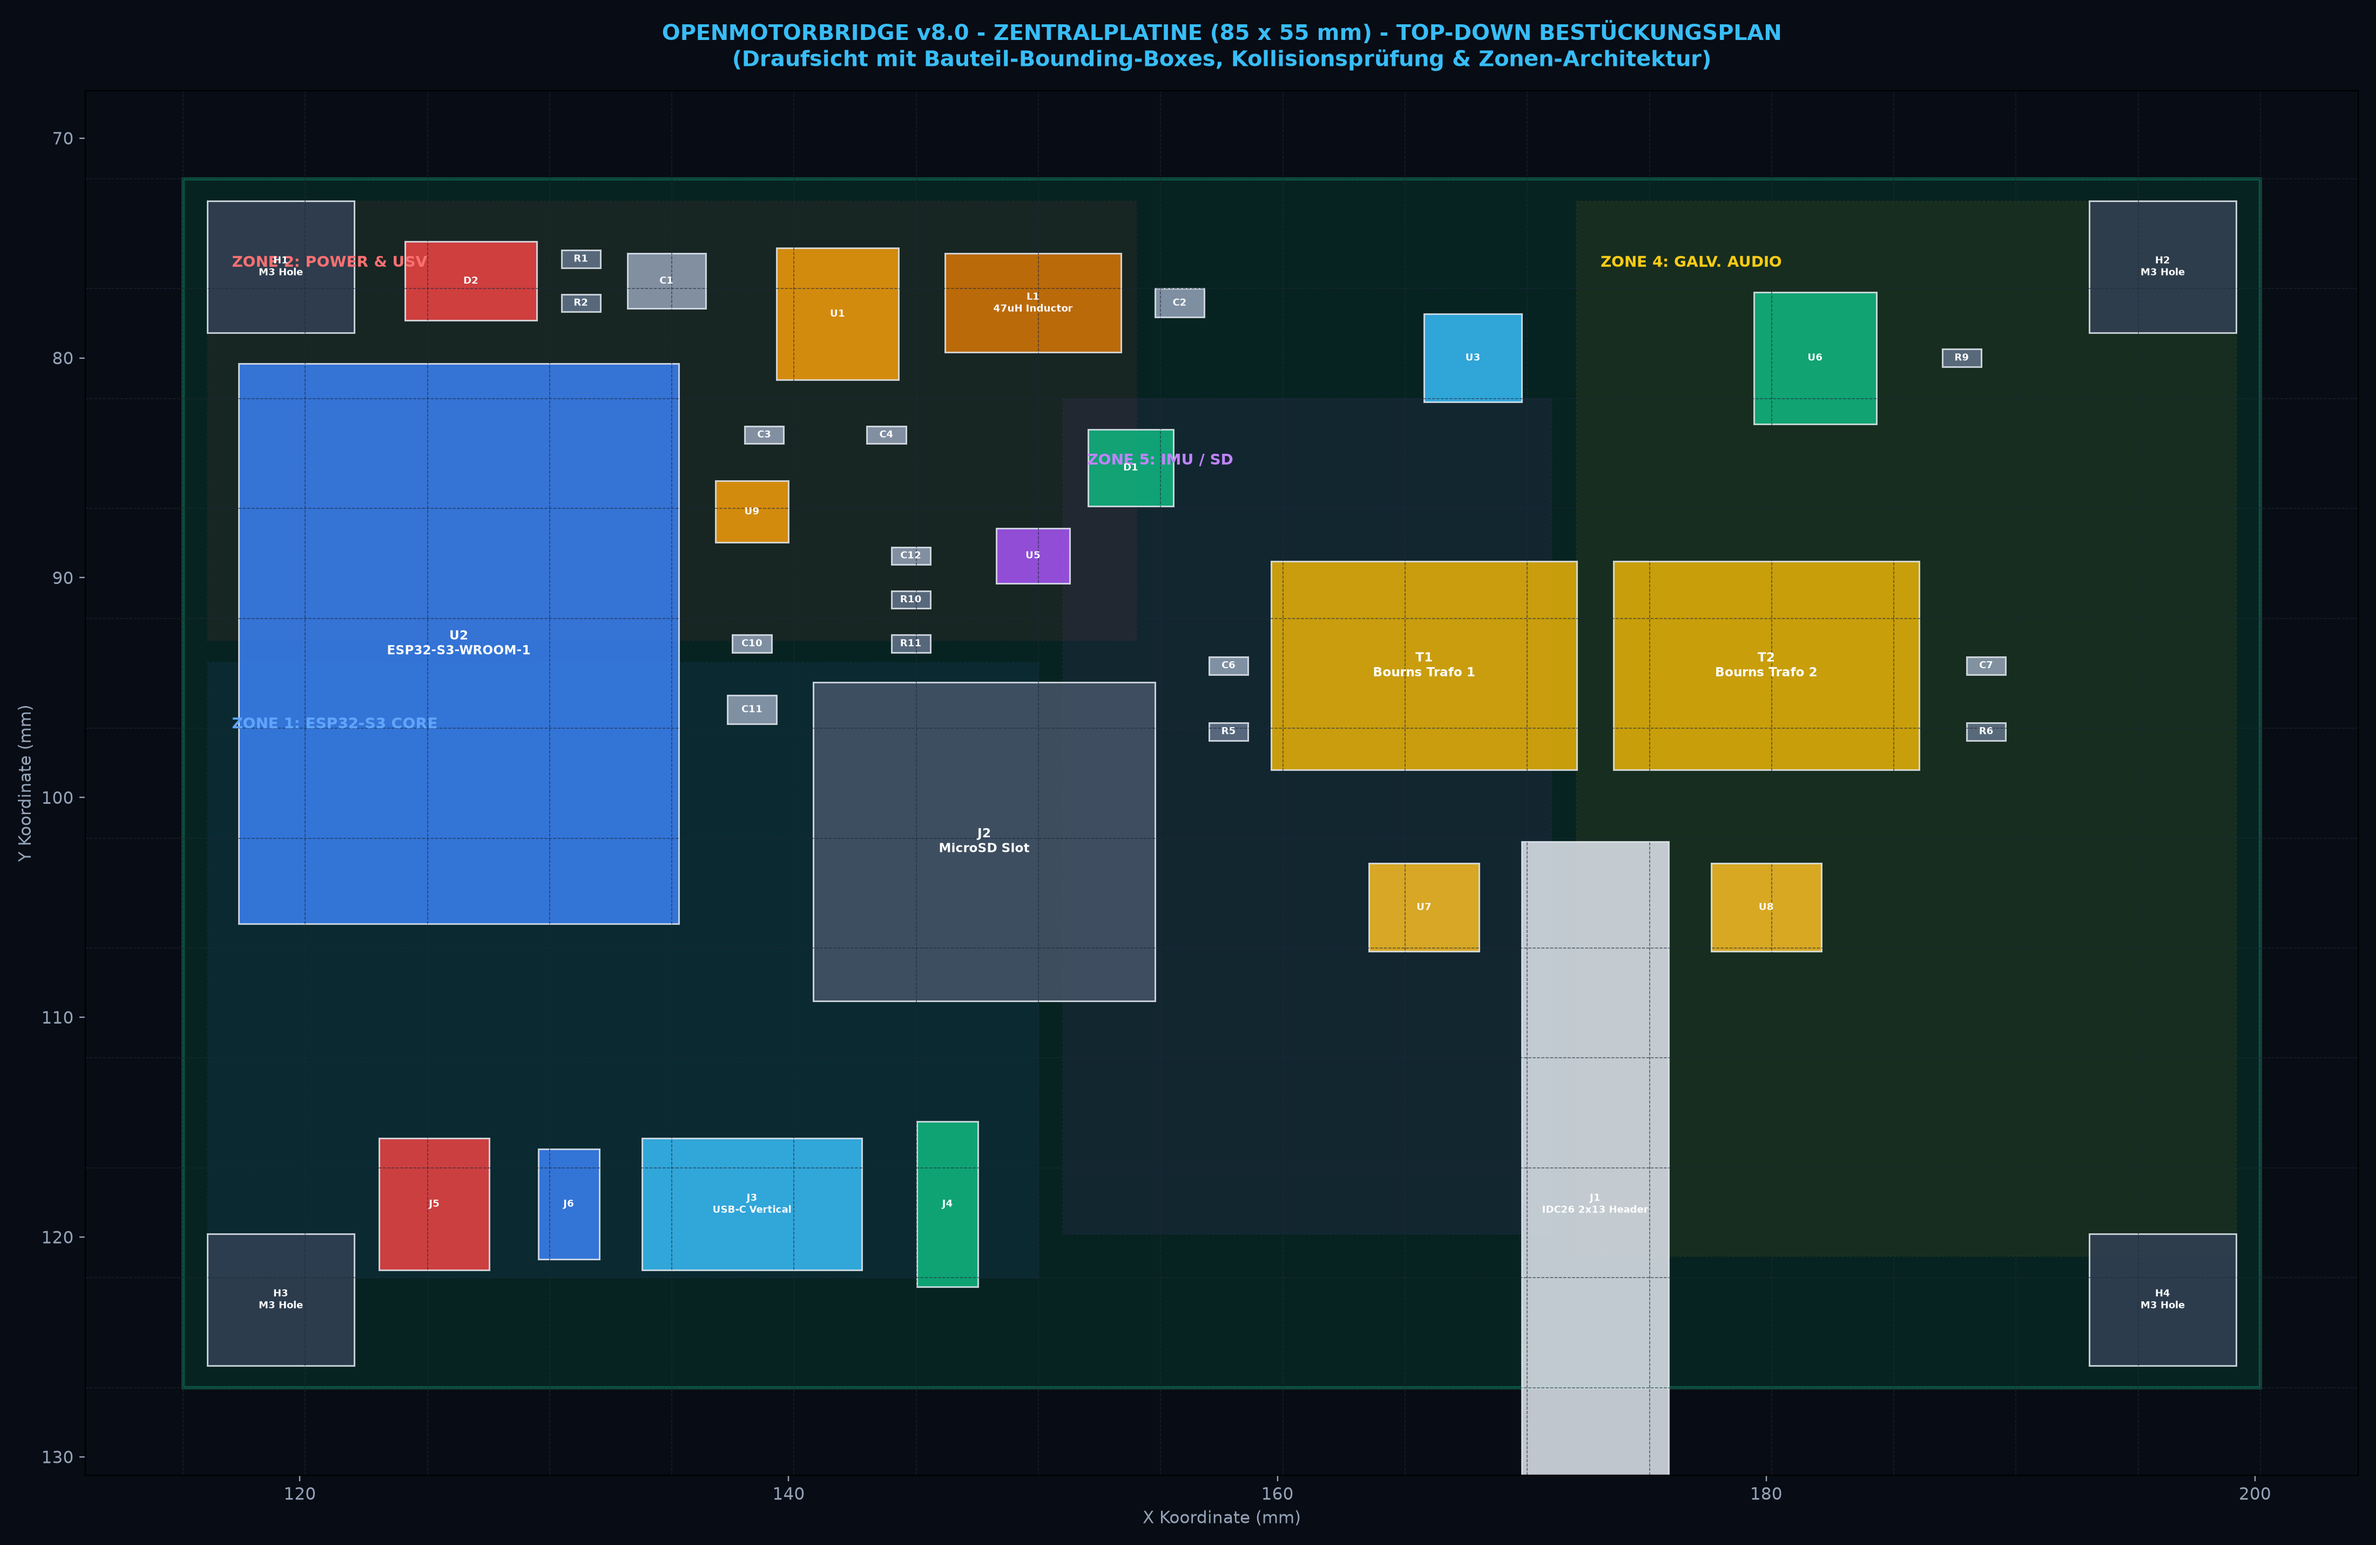
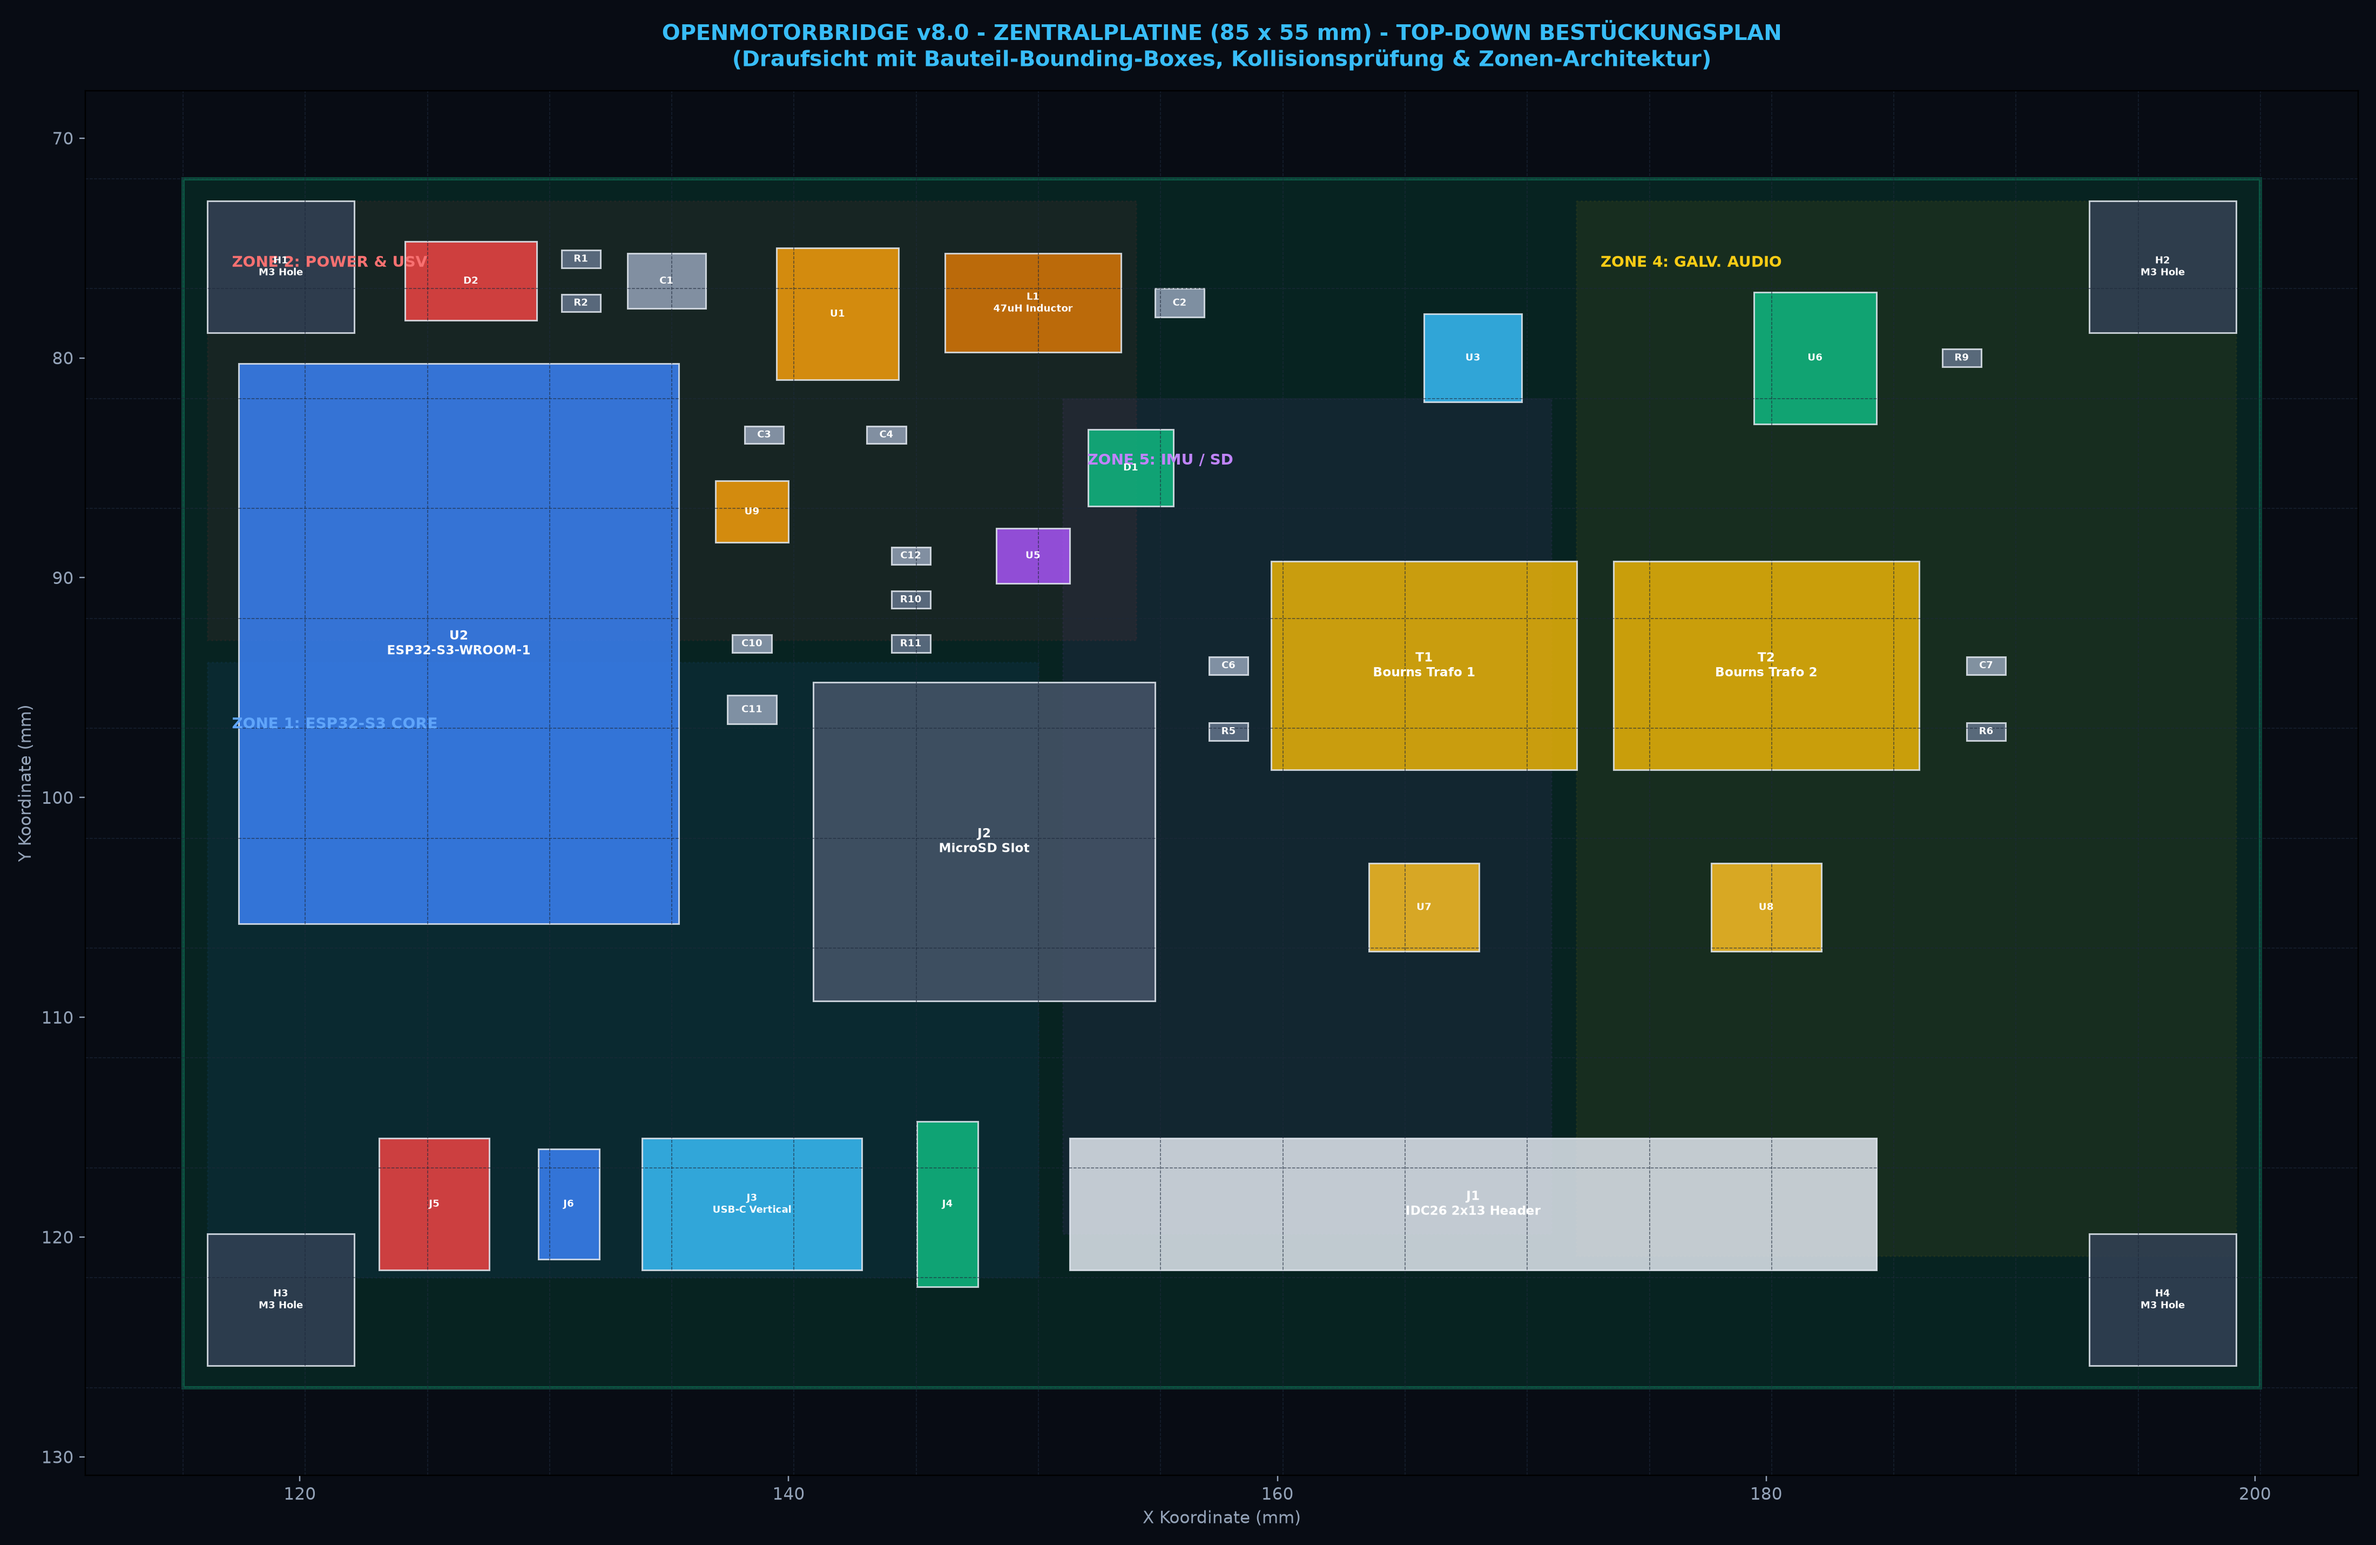
fix(pcb): finalize horizontal J1 layout on bottom edge with optimal straight audio routing

Changed region(s): [[0.4359, 0.529, 0.8095, 0.9647]]

diff --git a/hardware/scripts/generate_main_box_cad.py b/hardware/scripts/generate_main_box_cad.py
@@ -134,14 +134,14 @@ def render_main_box_cad(output_path):
     draw_cylinder(ax1, -10, -37.5, 6.5, 2.5, 1.5, color='#10b981', alpha=0.95, axis='y')
     draw_cylinder(ax1, -10, -38.5, 6.5, 1.8, 1.0, color='#34d399', alpha=0.95, axis='y')
 
-    # 3. HD26 D-Sub Wall Flange on Right/Center (39.2 x 15.4 mm at X = 15, Y = -37, Z = 5)
-    draw_box(ax1, -4, -40, -1, 38, 3, 15, color='#0284c7', alpha=0.95, edgecolor='#38bdf8', linewidth=1.0)
-    draw_box(ax1, -2, -42, 1, 34, 2, 11, color='#0f172a', alpha=0.95, edgecolor='#94a3b8', linewidth=0.8)
-    for px in np.linspace(1, 29, 8):
+    # 3. HD26 D-Sub Wall Flange on Right/Center (39.2 x 15.4 mm at X = 10, Y = -37, Z = 5)
+    draw_box(ax1, -9, -40, -1, 38, 3, 15, color='#0284c7', alpha=0.95, edgecolor='#38bdf8', linewidth=1.0)
+    draw_box(ax1, -7, -42, 1, 34, 2, 11, color='#0f172a', alpha=0.95, edgecolor='#94a3b8', linewidth=0.8)
+    for px in np.linspace(-4, 24, 8):
         for pz in np.linspace(3, 10, 3):
             draw_cylinder(ax1, px, -42.5, pz, 0.4, 1.5, color='#fbbf24', alpha=0.95, axis='y')
-    draw_cylinder(ax1, -3.5, -41, 6.5, 1.5, 3.0, color='#cbd5e1', alpha=0.95, axis='y')
-    draw_cylinder(ax1, 33.5, -41, 6.5, 1.5, 3.0, color='#cbd5e1', alpha=0.95, axis='y')
+    draw_cylinder(ax1, -8.5, -41, 6.5, 1.5, 3.0, color='#cbd5e1', alpha=0.95, axis='y')
+    draw_cylinder(ax1, 28.5, -41, 6.5, 1.5, 3.0, color='#cbd5e1', alpha=0.95, axis='y')
     
     # Top Lid Features:
     # 1. Gore ePTFE Pressure Equalization Vent (Ø 7.0 mm at center X = 0, Y = 0, Z = 18.5)
@@ -239,8 +239,8 @@ def render_main_box_cad(output_path):
     draw_box(ax2, -12.5, -22, -8.9, 2.5, 7.5, 5.0, color='#10b981', alpha=0.95, edgecolor='#059669', linewidth=0.6)
     
     # Right Group:
-    # J1 (26-Port IDC Header 2x13 at X_CAD = +15.3, spans X = -1.2 to +31.8)
-    draw_box(ax2, -1.2, -22, -8.9, 33, 6, 5.4, color='#0f172a', alpha=0.95, edgecolor='#fbbf24', linewidth=0.8)
+    # J1 (26-Port IDC Header 2x13 at X_CAD = +10.3, spans X = -6.2 to +26.8, Y = -22 to -16)
+    draw_box(ax2, -6.2, -22, -8.9, 33, 6, 5.4, color='#0f172a', alpha=0.95, edgecolor='#fbbf24', linewidth=0.8)
 
     # 4x Vibration PCB Mounts
     for px, py in [(-38, -23), (-38, 23), (38, -23), (38, 23)]:
@@ -257,11 +257,11 @@ def render_main_box_cad(output_path):
     draw_box(ax2, -3, -14, -2.0, 54, 47, 2.5, color='#334155', alpha=0.75, edgecolor='#64748b', linewidth=0.8)
 
     # 1. 38.0 x 6.0 mm Ribbon Cable Pass-Through Slot in Zwischenboden (on Right Side above J1)
-    draw_box(ax2, -3.5, -22.5, -2.2, 39, 8.5, 2.9, color='#0284c7', alpha=0.25, edgecolor='#38bdf8', linewidth=1.2)
+    draw_box(ax2, -8.5, -22.5, -2.2, 39, 8.5, 2.9, color='#0284c7', alpha=0.25, edgecolor='#38bdf8', linewidth=1.2)
     
     # 26-Conductor Ultra-Flexible Ribbon Cable (pink/violet AWG28) looping from HD26 in Oberwanne down to J1 on PCB
-    draw_box(ax2, 0, -36, 4, 30, 14, 1.2, color='#f43f5e', alpha=0.90, edgecolor='#fda4af', linewidth=0.6)
-    draw_box(ax2, 0, -22, -8.0, 30, 2, 13.0, color='#f43f5e', alpha=0.90, edgecolor='#fda4af', linewidth=0.6)
+    draw_box(ax2, -5, -36, 4, 30, 14, 1.2, color='#f43f5e', alpha=0.90, edgecolor='#fda4af', linewidth=0.6)
+    draw_box(ax2, -5, -22, -8.0, 30, 2, 13.0, color='#f43f5e', alpha=0.90, edgecolor='#fda4af', linewidth=0.6)
 
     # 2. 4x Labyrinth Pressure Equalization Slots in Zwischenboden (15 x 2 mm)
     for vx in [-35, -15, 10, 30]:

diff --git a/hardware/scripts/autoplace_openmotorbridge.py b/hardware/scripts/autoplace_openmotorbridge.py
@@ -120,8 +120,8 @@ def auto_place_main_board(pcb_path):
         'J3': (138.5, 118.5, 0.0),            # USB-C Service Port (9.0 x 6.0 mm, direct to ESP32/USV)
         'J4': (146.5, 118.5, 90.0),           # 3-Pin RGB LED Header (Rotated 90°: 2.5 x 7.5 mm)
 
-        # Zone 1B: Right Front Connector (26-Port Main System Header J1 - Direct Audio/Opto Drop)
-        'J1': (173.0, 118.5, 90.0),           # 26-Port IDC Box Header 2x13 (33.0 x 6.0 mm)
+        # Zone 1B: Right Front Connector (Horizontal J1 - Straight Drop from Audio Domain)
+        'J1': (168.0, 118.5, 0.0),            # 26-Port IDC Box Header 2x13 (Horizontal: 33.0 x 6.0 mm)
     }
 
     existing_refs = {fp.GetReference(): fp for fp in board.Footprints()}
